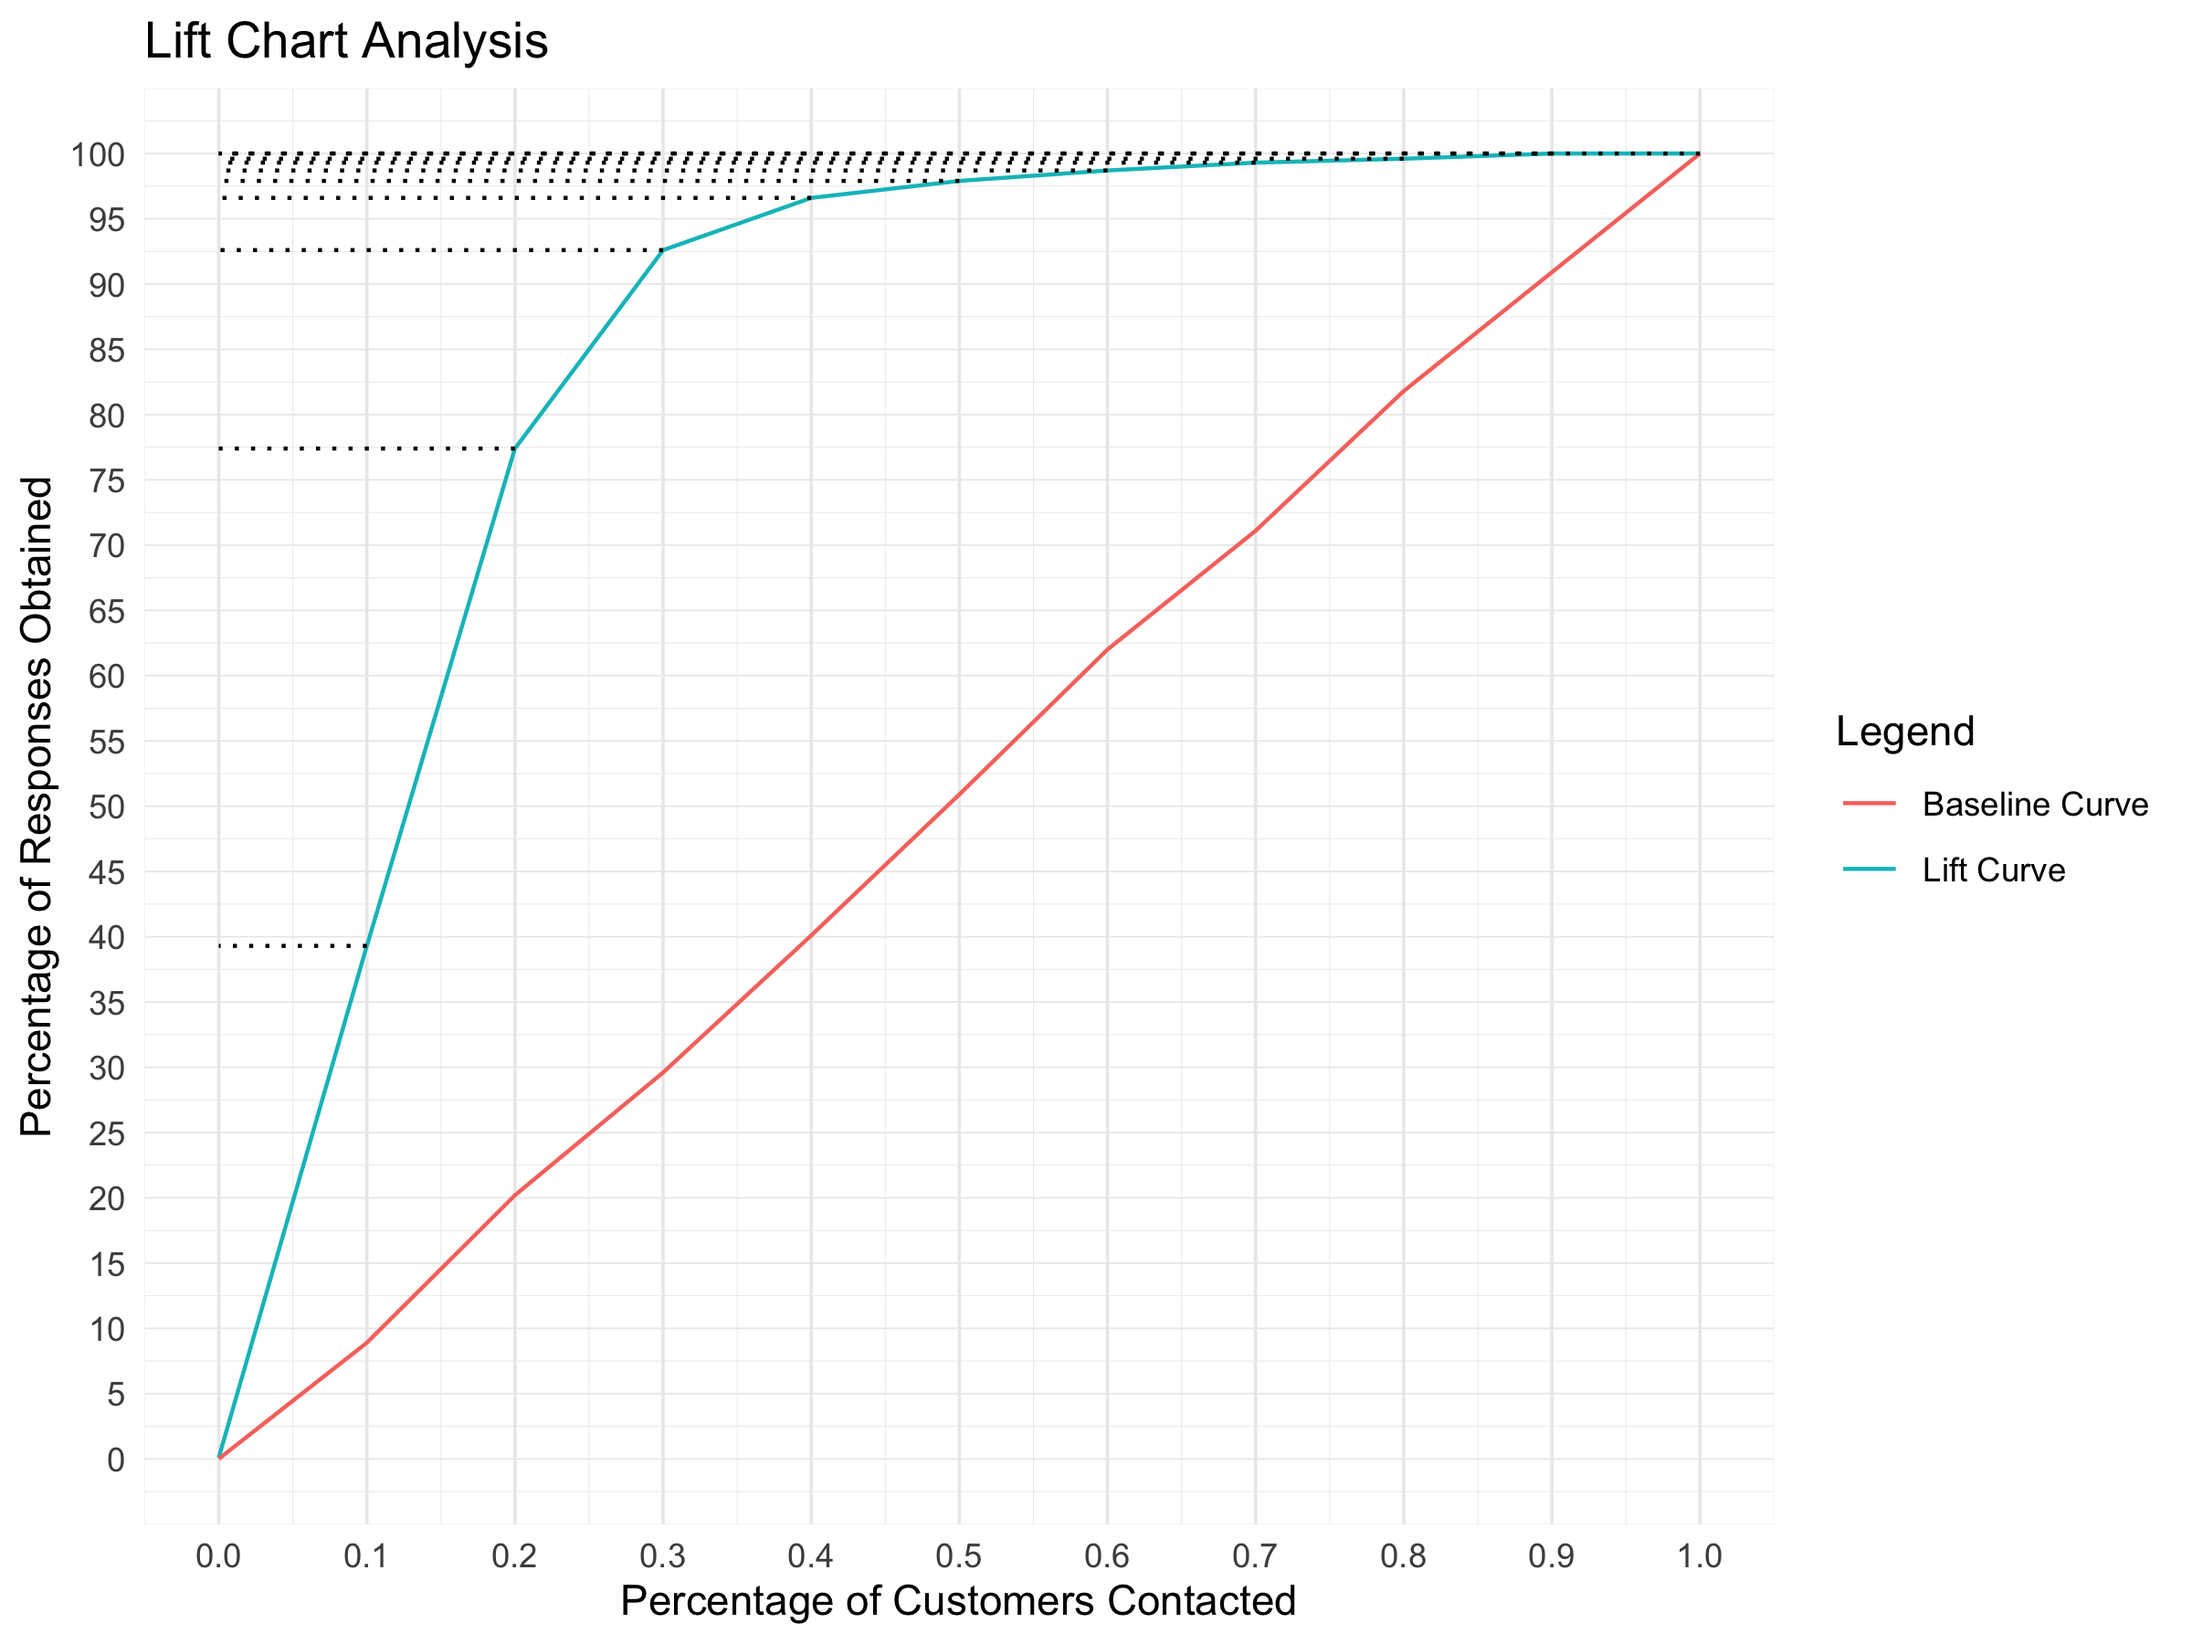
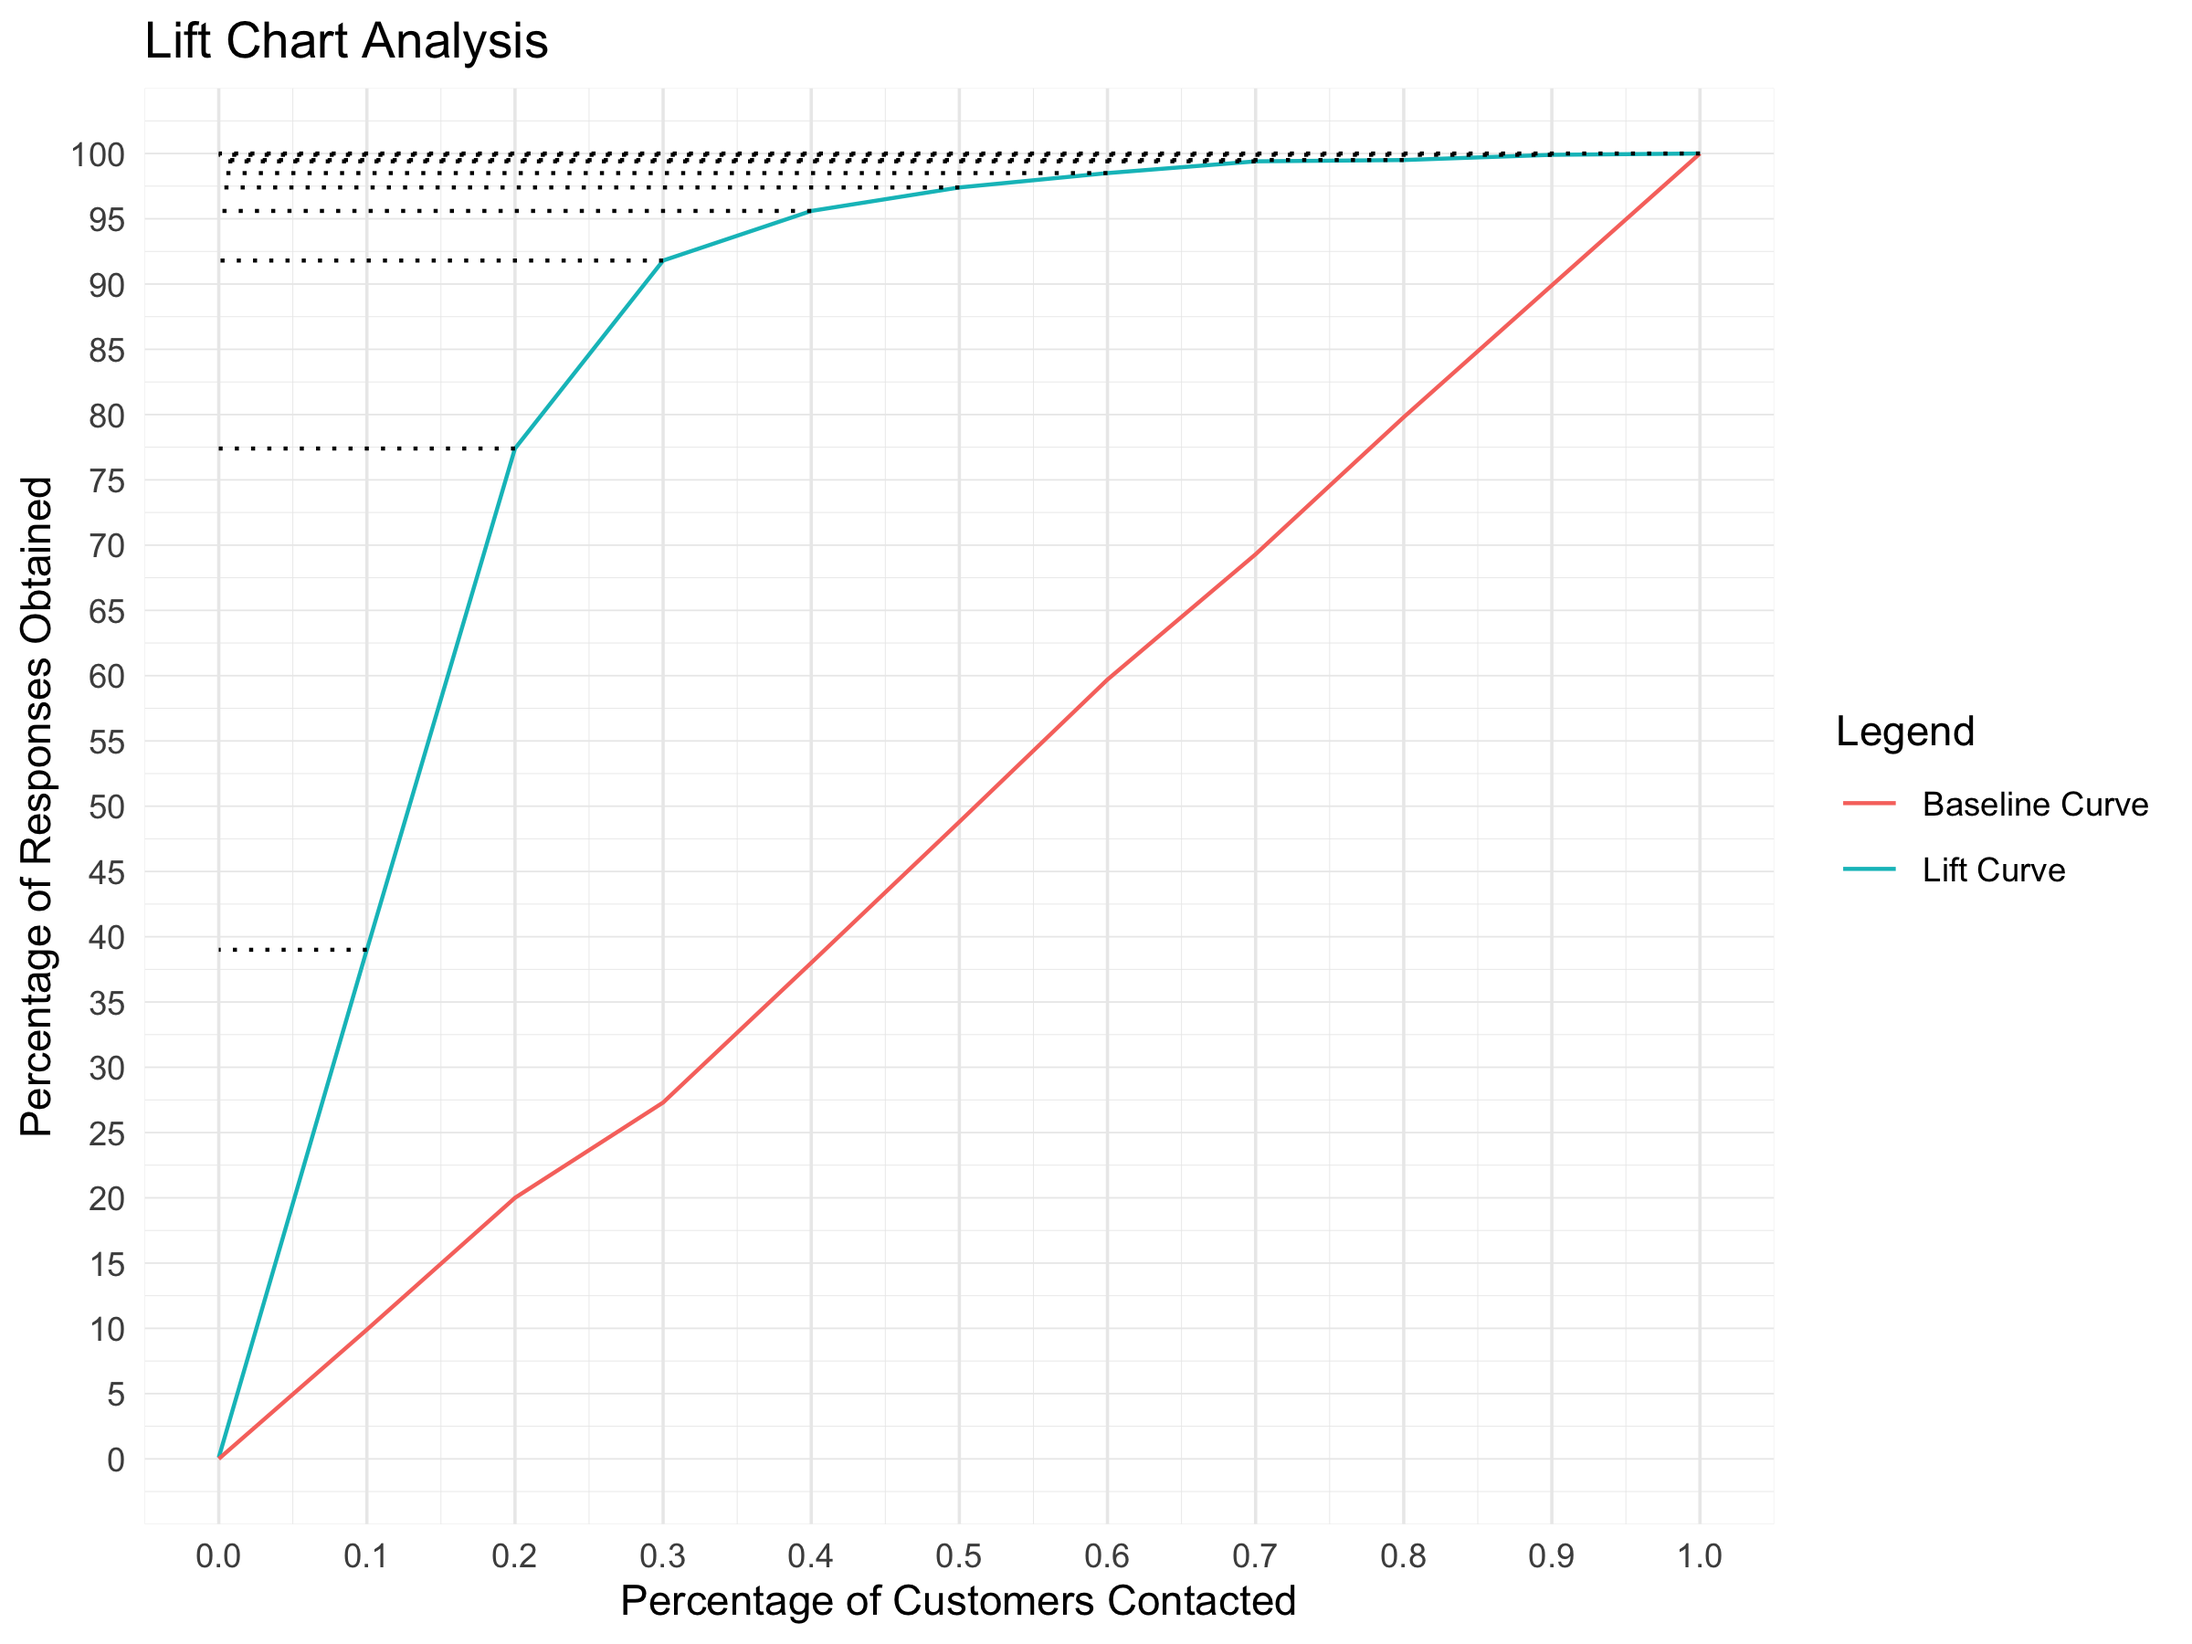
this is not good, we may want to simply delete this one if we don't re-do it better

diff --git a/Marketing_Prediction/ReadMe.md b/Marketing_Prediction/ReadMe.md
@@ -58,8 +58,6 @@ data$dist <- as.integer(data$dist) # make this an integer
 data <- data[sample(nrow(data)), ]
 ```
 
-# Compare Performance of Random Forest Against Logistic Regression
-
 # Random Forest Model
 
 ``` r
@@ -85,28 +83,28 @@ conf_matrix_RF
     ## 
     ##           Reference
     ## Prediction   0   1
-    ##          0 572 167
-    ##          1  28  33
-    ##                                          
-    ##                Accuracy : 0.7562         
-    ##                  95% CI : (0.725, 0.7856)
-    ##     No Information Rate : 0.75           
-    ##     P-Value [Acc > NIR] : 0.3589         
-    ##                                          
-    ##                   Kappa : 0.154          
-    ##                                          
-    ##  Mcnemar's Test P-Value : <2e-16         
-    ##                                          
-    ##             Sensitivity : 0.9533         
-    ##             Specificity : 0.1650         
-    ##          Pos Pred Value : 0.7740         
-    ##          Neg Pred Value : 0.5410         
-    ##              Prevalence : 0.7500         
-    ##          Detection Rate : 0.7150         
-    ##    Detection Prevalence : 0.9237         
-    ##       Balanced Accuracy : 0.5592         
-    ##                                          
-    ##        'Positive' Class : 0              
+    ##          0 575 164
+    ##          1  25  36
+    ##                                           
+    ##                Accuracy : 0.7638          
+    ##                  95% CI : (0.7327, 0.7928)
+    ##     No Information Rate : 0.75            
+    ##     P-Value [Acc > NIR] : 0.1961          
+    ##                                           
+    ##                   Kappa : 0.18            
+    ##                                           
+    ##  Mcnemar's Test P-Value : <2e-16          
+    ##                                           
+    ##             Sensitivity : 0.9583          
+    ##             Specificity : 0.1800          
+    ##          Pos Pred Value : 0.7781          
+    ##          Neg Pred Value : 0.5902          
+    ##              Prevalence : 0.7500          
+    ##          Detection Rate : 0.7188          
+    ##    Detection Prevalence : 0.9237          
+    ##       Balanced Accuracy : 0.5692          
+    ##                                           
+    ##        'Positive' Class : 0               
     ## 
 
 ROC curve
@@ -246,15 +244,15 @@ advantage_curve_data
 ```
 
     ##        lift baseline percent_contacted
-    ## 1  4.415730        1               0.1
-    ## 2  3.831683        1               0.2
-    ## 3  3.128378        1               0.3
-    ## 4  2.408978        1               0.4
-    ## 5  1.923379        1               0.5
-    ## 6  1.591935        1               0.6
-    ## 7  1.396624        1               0.7
-    ## 8  1.217604        1               0.8
-    ## 9  1.100110        1               0.9
+    ## 1  3.939394        1               0.1
+    ## 2  3.870000        1               0.2
+    ## 3  3.362637        1               0.3
+    ## 4  2.515789        1               0.4
+    ## 5  1.995902        1               0.5
+    ## 6  1.649916        1               0.6
+    ## 7  1.434343        1               0.7
+    ## 8  1.246867        1               0.8
+    ## 9  1.111235        1               0.9
     ## 10 1.000000        1               1.0
 
 ``` r
@@ -275,281 +273,5 @@ ggplot(advantage_curve_data, aes(x = percent_contacted)) +
 <div align="center">
 
 <img src="ReadMe_files/figure-gfm/unnamed-chunk-12-1.png" width="70%">
-
-</div>
-
-Now let’s see what we can do with a Logistic Regression model instead
-
-# Logistic Regression Model
-
-``` r
-library(caret)
-library(nnet) 
-
-
-data_LR <- data %>%
-  select(-id) %>%
-  mutate(
-    age = (age - mean(age, na.rm = TRUE)) / sd(age, na.rm = TRUE),
-    dist = (dist - mean(dist, na.rm = TRUE)) / sd(dist, na.rm = TRUE),
-    income = (income - mean(income, na.rm = TRUE)) / sd(income, na.rm = TRUE),
-    gender = as.integer(as.character(gender)),
-    marital_status = as.integer(as.character(marital_status)),
-    target = as.integer(as.character(target))
-  )
-
-
-set.seed(123)  # For reproducibility
-trainIndex <- createDataPartition(data_LR$target, p = 0.8, list = FALSE, times = 1)
-train_LR <- data_LR[trainIndex, ]
-test_LR <- data_LR[-trainIndex, ]
-
-
-LR_model <- multinom(
-  target ~ .,  
-  data = train_LR,
-  family = binomial()
-)
-```
-
-    ## # weights:  8 (7 variable)
-    ## initial  value 2218.070978 
-    ## iter  10 value 550.207089
-    ## iter  20 value 502.379846
-    ## final  value 502.267285 
-    ## converged
-
-confusion matrix for Logistic Regression Model
-
-``` r
-predictions_LR <- predict(LR_model, newdata = test_LR)
-
-conf_matrix_LR <- confusionMatrix(as.factor(predictions_LR), as.factor(test_LR$target))
-
-print(conf_matrix_LR)
-```
-
-    ## Confusion Matrix and Statistics
-    ## 
-    ##           Reference
-    ## Prediction   0   1
-    ##          0 589  29
-    ##          1  11 171
-    ##                                          
-    ##                Accuracy : 0.95           
-    ##                  95% CI : (0.9325, 0.964)
-    ##     No Information Rate : 0.75           
-    ##     P-Value [Acc > NIR] : < 2e-16        
-    ##                                          
-    ##                   Kappa : 0.8625         
-    ##                                          
-    ##  Mcnemar's Test P-Value : 0.00719        
-    ##                                          
-    ##             Sensitivity : 0.9817         
-    ##             Specificity : 0.8550         
-    ##          Pos Pred Value : 0.9531         
-    ##          Neg Pred Value : 0.9396         
-    ##              Prevalence : 0.7500         
-    ##          Detection Rate : 0.7362         
-    ##    Detection Prevalence : 0.7725         
-    ##       Balanced Accuracy : 0.9183         
-    ##                                          
-    ##        'Positive' Class : 0              
-    ## 
-
-ROC curve for Logistic Regression Model
-
-``` r
-model_output <- predict(LR_model, newdata = test_LR, type = "prob")
-model_output <- data.frame(model_output)
-test_LR$prob_one <- model_output$model_output
-```
-
-``` r
-roc_curve <- roc(response = test_LR$target, predictor = test_LR$prob_one)
-
-roc_metrics <- coords(roc_curve, x = "all", ret = c("threshold", "sensitivity", "specificity"))
-auc_value <- auc(roc_curve)
-
-roc_data <- data.frame(
-  TPR = roc_metrics$sensitivity,
-  FPR = roc_metrics$specificity,
-  Threshold = roc_metrics$threshold
-)
-
-
-
-ggplot(roc_data, aes(x = FPR, y = TPR, color = Threshold)) +
-  geom_line(size = 1) +
-  geom_abline(slope = 1, intercept = 1, linetype = "dashed", color = "gray") +
-  geom_line(
-    data = data.frame(FPR = c(1, 1, 0), TPR = c(0, 1, 1)), 
-    aes(x = FPR, y = TPR), 
-    color = "blue", 
-    size = 1, 
-    linetype = "dotted"
-  ) +
-  labs(
-    title = "ROC Curve for Multinomial Logistic Regression",
-    x = "Specificity",
-    y = "True Positive Rate (Sensitivity)",
-    caption = paste("AUC:", round(auc_value, 4)),
-    color = "Decision Threshold"
-  ) +
-  scale_color_gradient(
-    low = "red",                     # Reverse gradient colors
-    high = "blue",                   # Red becomes low, blue becomes high
-    trans = "reverse",               # Reverse the gradient mapping
-    guide = guide_colorbar(
-      direction = "horizontal",      # Horizontal orientation
-      title.position = "top",        # Title above the legend
-      label.position = "bottom"      # Labels below the legend
-    )
-  ) +
-  coord_fixed() +
-  scale_x_reverse() +
-  ylim(0, 1) +
-  theme_minimal() +
-  theme(
-    legend.position = "top",          # Place legend at the top of the plot
-    legend.justification = "center",  # Center align the legend
-    legend.box.spacing = unit(0.5, "cm"), # Adjust spacing between legend and plot
-    plot.caption = element_text(hjust = 0.5, size = 12)
-  )
-```
-
-<div align="center">
-
-<img src="ReadMe_files/figure-gfm/unnamed-chunk-16-1.png" width="70%">
-
-</div>
-
-``` r
-model_output <- predict(LR_model, newdata = data_LR, type = "prob")
-model_output <- data.frame(model_output)
-data_LR$prob_one <- model_output$model_output
-```
-
-``` r
-lift_data_LR <- data_LR[order(data_LR$prob_one, decreasing = TRUE),]
-sum_responses <- sum(as.numeric(as.character(data_LR$target)))
-
-lift_curve <- numeric(0)
-baseline_curve <- numeric(0)
-
-for (i in 0:10) {
-  
-  lift_curve[i + 1] <- sum(lift_data_LR[seq(1, (0.1 * i) * nrow(lift_data_LR)), 6] == "1") / sum_responses * 100
-  
-  baseline_curve[i + 1] <- sum(data_LR[seq(1, (0.1 * i) * nrow(data_LR)), 6] == "1") / sum_responses * 100
-  
-}
-
-lift_chart_data_LR <- data.frame(lift = lift_curve,baseline = baseline_curve)
-
-ggplot(lift_chart_data_LR, aes(x = seq(0, 1, 0.1))) + 
-  geom_line(aes(y = lift, color = "Lift Curve")) + 
-  geom_line(aes(y = baseline, color = "Baseline Curve")) + 
-  geom_segment(
-    aes(
-      x = seq(0, 1, 0.1), 
-      xend = 0, 
-      y = lift, 
-      yend = lift
-    ),
-    linetype = "dotted", color = "black", size = 0.5
-  ) + 
-  theme_minimal() + 
-  theme(
-    panel.grid.major = element_line(size = 0.2), 
-    panel.grid.minor = element_line(size = 0.1),
-    panel.grid.major.x = element_line(size = 0.4)  # Thicker x-axis major grid lines
-  ) + 
-  labs(
-    title = "Lift Chart Analysis",
-    x = "Percentage of Customers Contacted",
-    y = "Percentage of Responses Obtained",
-    color = "Legend"
-  ) + 
-  scale_x_continuous(breaks = seq(0, 1, 0.1)) + 
-  scale_y_continuous(breaks = seq(0, 100, 5))
-```
-
-<div align="center">
-
-<img src="ReadMe_files/figure-gfm/unnamed-chunk-18-1.png" width="70%">
-
-</div>
-
-``` r
-advantage_curve_data_LR <- lift_chart_data_LR %>% 
-  mutate(lift = coalesce(lift / baseline, 0)) %>%
-    mutate(baseline = coalesce(baseline / baseline, 0)) %>%
-      mutate(percent_contacted = seq(0,1,.1)) %>%
-        filter(row_number() > 1)
- 
-advantage_curve_data_LR
-```
-
-    ##        lift baseline percent_contacted
-    ## 1  4.460674        1               0.1
-    ## 2  3.866337        1               0.2
-    ## 3  3.114865        1               0.3
-    ## 4  2.408978        1               0.4
-    ## 5  1.933202        1               0.5
-    ## 6  1.598387        1               0.6
-    ## 7  1.398031        1               0.7
-    ## 8  1.217604        1               0.8
-    ## 9  1.100110        1               0.9
-    ## 10 1.000000        1               1.0
-
-``` r
-ggplot(advantage_curve_data_LR, aes(x = percent_contacted)) + 
-  geom_line(aes(y = lift, color = "Lift Curve")) + 
-  geom_line(aes(y = baseline, color = "Baseline Curve")) + 
-  theme_minimal() + 
-  labs(
-    title = "Advantage Curve Analysis",
-    x = "Percentage of Customers Contacted",
-    y = "Percentage of Customers Respond",
-    color = "Legend"
-  ) + 
-  coord_cartesian(ylim = c(0.5, 5)) + 
-  scale_x_continuous(breaks = seq(0, 1, by = 0.10))
-```
-
-<div align="center">
-
-<img src="ReadMe_files/figure-gfm/unnamed-chunk-19-1.png" width="70%">
-
-</div>
-
-# Logistic Regression Model is Better
-
-This is the optimal decision threshold from the ROC
-
-``` r
-optimal_threshold <- roc_metrics$threshold[which.min(abs(roc_metrics$sensitivity - roc_metrics$specificity))]
-
-your_tibble <- roc_metrics[roc_metrics[, 1] == optimal_threshold, ]
-
-library(knitr)
-library(kableExtra)
-
-kable(your_tibble, format = "html") %>%
-  kable_styling(position = "center") %>%
-  save_kable(
-    file = "~/Desktop/DS_DA_Projects/Marketing_Prediction/ReadMe_files/figure-gfm/t2.png", 
-    zoom = 2
-  )
-
-knitr::include_graphics(
-  "~/Desktop/DS_DA_Projects/Marketing_Prediction/ReadMe_files/figure-gfm/t2.png"
-)
-```
-
-<div align="center">
-
-<img src="ReadMe_files/figure-gfm/t2.png" width="70%">
 
 </div>
